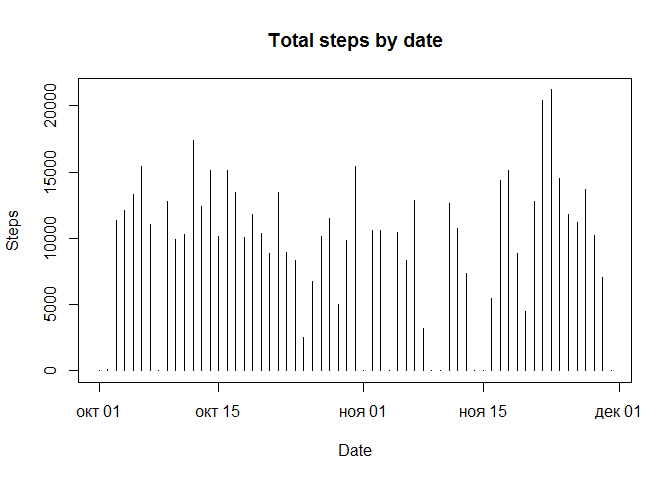
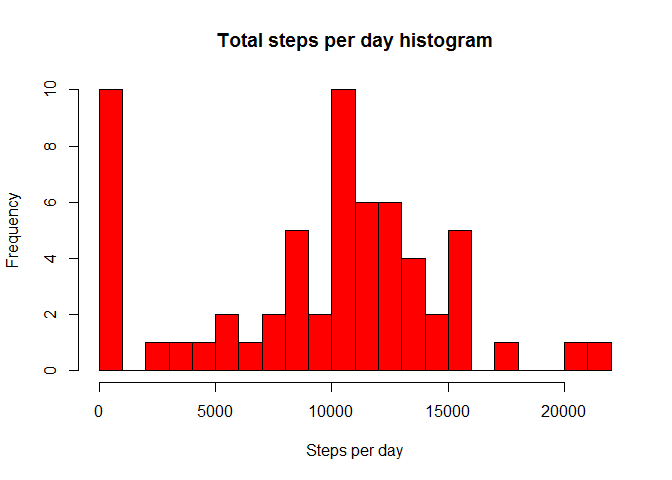
Fix histograms Add some descriptions

diff --git a/PA1_template.html b/PA1_template.html
@@ -55,10 +55,16 @@ if (window.hljs && document.readyState && document.readyState === "complete") {
 </div>
 
 
+<div id="important-note" class="section level2">
+<h2>Important note!</h2>
+<p><strong>Please be patient to other peoples works. This assignment can invoke disputes. So please be generous.</strong></p>
+</div>
 <div id="loading-and-preprocessing-the-data" class="section level2">
 <h2>Loading and preprocessing the data</h2>
+<p>First off, we load the required libraries for data manipulation and plotting</p>
 <pre class="r"><code>library(dplyr)
 library(ggplot2)</code></pre>
+<p>Next, check whether the csv file exists or not, and unzip. After that load data and cast column types to required ones.</p>
 <pre class="r"><code>if (!file.exists(&quot;data/activity.csv&quot;)) {
     unzip(&quot;activity.zip&quot;, exdir = &quot;data&quot;)    
 }
@@ -70,12 +76,14 @@ datadt$interval &lt;- as.numeric(datadt$interval)</code></pre>
 </div>
 <div id="what-is-mean-total-number-of-steps-taken-per-day" class="section level2">
 <h2>What is mean total number of steps taken per day?</h2>
+<p>Here we draw a <strong>histogram</strong>, that is the frequencies of total steps per day. This plot (and the third one) causes the most difficulties among different people.</p>
 <pre class="r"><code>grouppedByDate &lt;- group_by(datadt, date)
+# Do nopt include NA values
 stepsByDate &lt;- summarise(grouppedByDate, steps = sum(steps, na.rm = TRUE))
-stepsByDate$date &lt;- as.Date(stepsByDate$date)
-plot(stepsByDate$date, stepsByDate$steps, type = &quot;h&quot;, xlab = &quot;Date&quot;, ylab = &quot;Steps&quot;, main = &quot;Total steps by date&quot;)</code></pre>
[1 lines of base64/hex data omitted]
-<pre class="r"><code>print(paste(&quot;Steps mean: &quot;, mean(stepsByDate$steps, na.rm = TRUE)))</code></pre>
+hist(stepsByDate$steps, breaks = 20, col = &quot;red&quot;, xlab = &quot;Steps per day&quot;, main = &quot;Total steps per day histogram&quot;)</code></pre>
[1 lines of base64/hex data omitted]
+<pre class="r"><code># Also exclude NA
+print(paste(&quot;Steps mean: &quot;, mean(stepsByDate$steps, na.rm = TRUE)))</code></pre>
 <pre><code>## [1] &quot;Steps mean:  9354.22950819672&quot;</code></pre>
 <pre class="r"><code>print(paste(&quot;Steps median: &quot;, median(stepsByDate$steps, na.rm = TRUE)))</code></pre>
 <pre><code>## [1] &quot;Steps median:  10395&quot;</code></pre>
@@ -90,6 +98,7 @@ plot(x = averagedData$interval, y = averagedData$steps, type = &quot;l&quot;, xl
 </div>
 <div id="imputing-missing-values" class="section level2">
 <h2>Imputing missing values</h2>
+<p>We use the following strategy to fill empty values: fill it with a mean value for a given interval. Mean values per interval we calculated before and stored in the <strong>averagedData</strong> variable. This strategy is stored in a <strong>fixSteps()</strong> function and is used then to refill the steps column with calculated data.</p>
 <pre class="r"><code># 1. Missing vals
 missingRows &lt;- filter(datadt, is.na(steps))
 print(paste(&quot;Missing rows: &quot;, count(missingRows)$n))</code></pre>
@@ -112,8 +121,8 @@ filledDatadt &lt;-
 <pre class="r"><code># 4. Make a histogram and calculate means
 grouppedByDate &lt;- group_by(filledDatadt, date)
 stepsByDate &lt;- summarise(grouppedByDate, steps = sum(steps))
-plot(stepsByDate$date, stepsByDate$steps, type = &quot;h&quot;, xlab = &quot;Date&quot;, ylab = &quot;Steps&quot;, main = &quot;Total steps by date (filled by mean interval value across days)&quot;)</code></pre>
[1 lines of base64/hex data omitted]
+hist(stepsByDate$steps, breaks = 20,col=&quot;green&quot;, xlab = &quot;Steps per day&quot;, main = &quot;Total steps per day histogram&quot;)</code></pre>
[1 lines of base64/hex data omitted]
 <pre class="r"><code>print(paste(&quot;Steps mean: &quot;, mean(stepsByDate$steps)))</code></pre>
 <pre><code>## [1] &quot;Steps mean:  10765.6393442623&quot;</code></pre>
 <pre class="r"><code>print(paste(&quot;Steps median: &quot;, median(stepsByDate$steps)))</code></pre>
@@ -122,6 +131,7 @@ plot(stepsByDate$date, stepsByDate$steps, type = &quot;h&quot;, xlab = &quot;Dat
 </div>
 <div id="are-there-differences-in-activity-patterns-between-weekdays-and-weekends" class="section level2">
 <h2>Are there differences in activity patterns between weekdays and weekends?</h2>
+<p>Here we just separate the data by <strong>dayType</strong> factor and render a separate plots for different factor values. The usage of <strong>Sys.setlocale()</strong> is mandatory for non-english-speaking countries, because R has a localized weekday names.</p>
 <pre class="r"><code># Function to mark day type for rows
 Sys.setlocale(&quot;LC_TIME&quot;, &quot;English&quot;)</code></pre>
 <pre><code>## [1] &quot;English_United States.1252&quot;</code></pre>
@@ -140,10 +150,12 @@ filledDatadt &lt;-
 filledDatadt$dayType &lt;- factor(filledDatadt$dayType)
 
 # Draw a plot
-averagedData &lt;- summarise(group_by(filledDatadt, dayType, interval), steps = mean(steps, na.rm = TRUE))</code></pre>
-<pre><code>## Warning: Grouping rowwise data frame strips rowwise nature</code></pre>
-<pre class="r"><code>qplot(x = averagedData$interval, y = averagedData$steps, xlab=&quot;5-minute intervals&quot;, ylab=&quot;Steps&quot;, main=&quot;Average daily activity pattern&quot;,geom = &quot;path&quot;, data = averagedData, facets =  dayType ~ .)</code></pre>
[1 lines of base64/hex data omitted]
+averagedData &lt;- summarise(group_by(filledDatadt, dayType, interval), steps = mean(steps, na.rm = TRUE))
+qplot(x = averagedData$interval, y = averagedData$steps, xlab=&quot;5-minute intervals&quot;, ylab=&quot;Steps&quot;, main=&quot;Average daily activity pattern&quot;,geom = &quot;path&quot;, data = averagedData, facets =  dayType ~ ., color=dayType)</code></pre>
[1 lines of base64/hex data omitted]
+</div>
+<div id="thanks-for-reviewing-my-work" class="section level2">
+<h2>Thanks for reviewing my work!</h2>
 </div>
 
 

diff --git a/PA1_template.md b/PA1_template.md
@@ -1,12 +1,20 @@
 # Reproducible Research: Peer Assessment 1
 
+## Important note!
+
+**Please be patient to other peoples works. This assignment can invoke disputes. So please be generous.**
+
 
 ## Loading and preprocessing the data
+First off, we load the required libraries for data manipulation and plotting
+
 
 ```r
 library(dplyr)
 library(ggplot2)
 ```
+
+Next, check whether the csv file exists or not, and unzip. After that load data and cast column types to required ones.
 
 
 ```r
@@ -24,16 +32,20 @@ datadt$interval <- as.numeric(datadt$interval)
 
 ## What is mean total number of steps taken per day?
 
+Here we draw a **histogram**, that is the frequencies of total steps per day. This plot (and the third one) causes the most difficulties among different people.
+
+
 ```r
 grouppedByDate <- group_by(datadt, date)
+# Do nopt include NA values
 stepsByDate <- summarise(grouppedByDate, steps = sum(steps, na.rm = TRUE))
-stepsByDate$date <- as.Date(stepsByDate$date)
-plot(stepsByDate$date, stepsByDate$steps, type = "h", xlab = "Date", ylab = "Steps", main = "Total steps by date")
+hist(stepsByDate$steps, breaks = 20, col = "red", xlab = "Steps per day", main = "Total steps per day histogram")
 ```
 
 ![](PA1_template_files/figure-html/mean_values-1.png) 
 
 ```r
+# Also exclude NA
 print(paste("Steps mean: ", mean(stepsByDate$steps, na.rm = TRUE)))
 ```
 
@@ -48,7 +60,6 @@ print(paste("Steps median: ", median(stepsByDate$steps, na.rm = TRUE)))
 ```
 ## [1] "Steps median:  10395"
 ```
-
 
 
 ## What is the average daily activity pattern?
@@ -71,6 +82,8 @@ maximumAveInterval <- averagedData[order(averagedData$steps, decreasing = TRUE),
 
 
 ## Imputing missing values
+
+We use the following strategy to fill empty values: fill it with a mean value for a given interval. Mean values per interval we calculated before and stored in the **averagedData** variable. This strategy is stored in a **fixSteps()** function and is used then to refill the steps column with calculated data.
 
 
 ```r
@@ -108,7 +121,7 @@ filledDatadt <-
 # 4. Make a histogram and calculate means
 grouppedByDate <- group_by(filledDatadt, date)
 stepsByDate <- summarise(grouppedByDate, steps = sum(steps))
-plot(stepsByDate$date, stepsByDate$steps, type = "h", xlab = "Date", ylab = "Steps", main = "Total steps by date (filled by mean interval value across days)")
+hist(stepsByDate$steps, breaks = 20,col="green", xlab = "Steps per day", main = "Total steps per day histogram")
 ```
 
 ![](PA1_template_files/figure-html/missing_vals-1.png) 
@@ -133,6 +146,9 @@ print(paste("Steps median: ", median(stepsByDate$steps)))
 
 
 ## Are there differences in activity patterns between weekdays and weekends?
+
+Here we just separate the data by **dayType** factor and render a separate plots for different factor values.
+The usage of **Sys.setlocale()** is mandatory for non-english-speaking countries, because R has a localized weekday names.
 
 
 ```r
@@ -161,15 +177,10 @@ filledDatadt$dayType <- factor(filledDatadt$dayType)
 
 # Draw a plot
 averagedData <- summarise(group_by(filledDatadt, dayType, interval), steps = mean(steps, na.rm = TRUE))
+qplot(x = averagedData$interval, y = averagedData$steps, xlab="5-minute intervals", ylab="Steps", main="Average daily activity pattern",geom = "path", data = averagedData, facets =  dayType ~ ., color=dayType)
 ```
 
-```
-## Warning: Grouping rowwise data frame strips rowwise nature
-```
+![](PA1_template_files/figure-html/weeksdays_weekend-1.png) 
 
-```r
-qplot(x = averagedData$interval, y = averagedData$steps, xlab="5-minute intervals", ylab="Steps", main="Average daily activity pattern",geom = "path", data = averagedData, facets =  dayType ~ .)
-```
-
-![](PA1_template_files/figure-html/unnamed-chunk-2-1.png) 
+## Thanks for reviewing my work!
 
